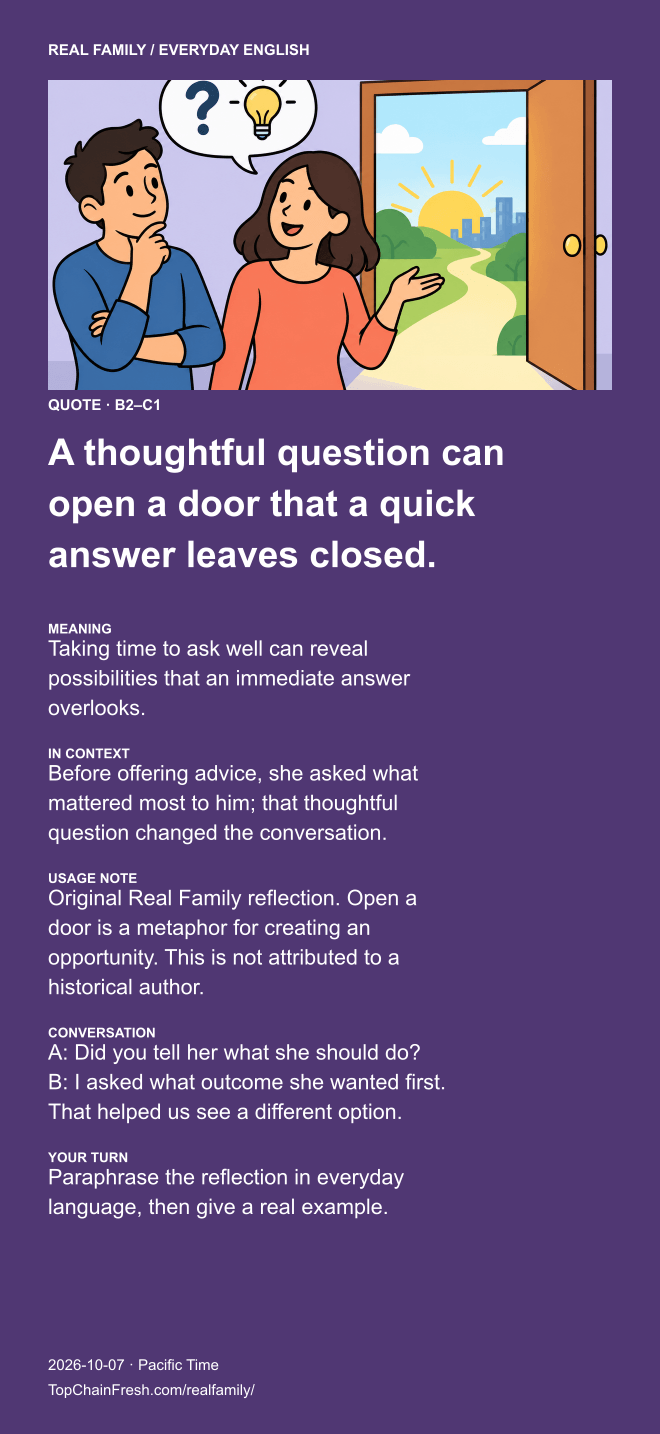
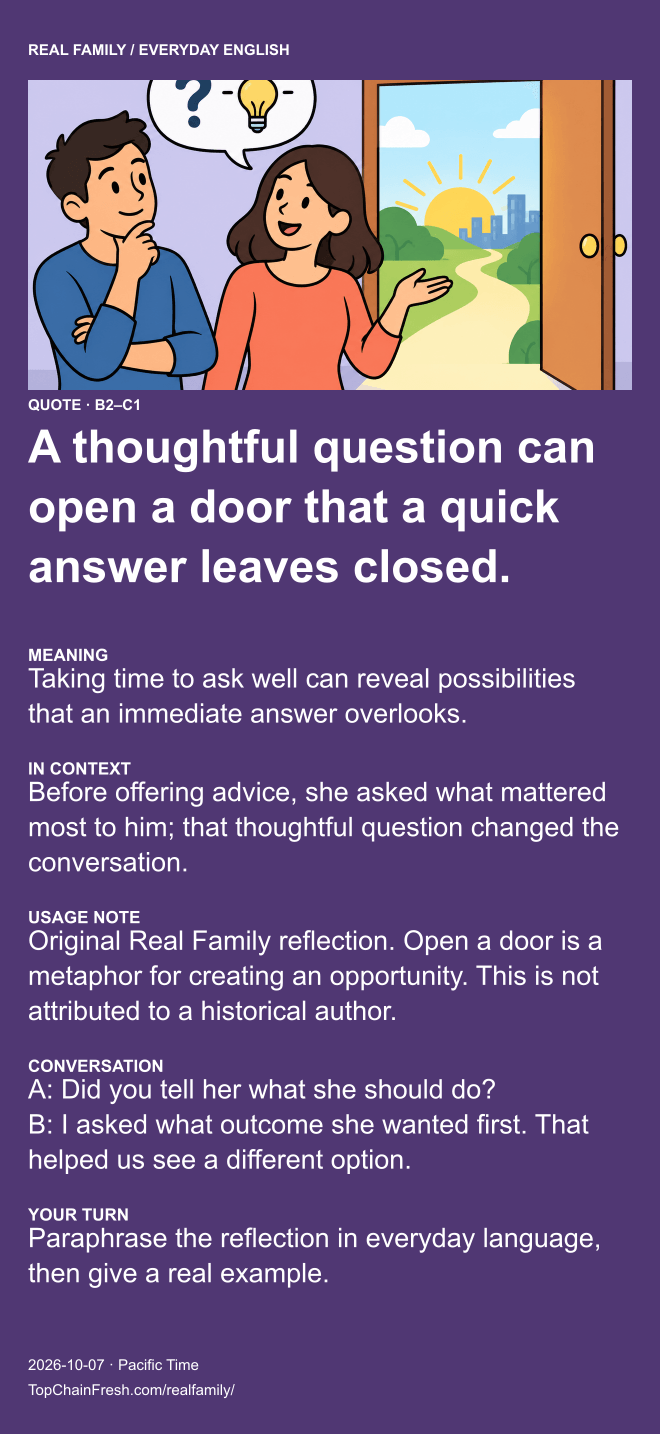
Publish larger English lesson text with narrower margins

diff --git a/realfamily/reports/Real-Family-Website-Report-2026-10-07.html b/realfamily/reports/Real-Family-Website-Report-2026-10-07.html
@@ -1,1 +1,1 @@
-<!doctype html><html lang="zh-Hant"><meta charset="utf-8"><meta name="viewport" content="width=device-width, initial-scale=1"><title>Real Family｜家庭網站使用與設定報告</title><style>*{box-sizing:border-box}body{margin:0;background:#f5f3ec;color:#253e36;font:18px/1.85 -apple-system,BlinkMacSystemFont,"Noto Sans TC",Arial,sans-serif}main{max-width:980px;margin:48px auto;padding:50px 60px;background:white;border-top:6px solid #284c3e;box-shadow:0 12px 40px #253e360b}h1{font-size:38px;line-height:1.4;margin:0 0 24px}h2{font-size:27px;line-height:1.5;margin:48px 0 20px;padding-top:24px;border-top:1px solid #dae0d8}h3{font-size:21px;margin:28px 0 14px}p{margin:0 0 20px}a{color:#35644e;text-underline-offset:4px}li{margin:10px 0}strong{font-weight:650}.table-scroll{overflow:auto;margin:25px 0}table{border-collapse:collapse;width:100%;font-size:16px;line-height:1.6}td,th{text-align:left;padding:14px 12px;border-bottom:1px solid #dae0d8;vertical-align:top}th{background:#edf2e9}button{font:inherit;background:#284c3e;color:white;border:0;border-radius:6px;padding:10px 22px;cursor:pointer}.toolbar{max-width:980px;margin:30px auto;display:flex;gap:16px;align-items:center;padding:0 20px;font-size:15px}.footer{color:#69796f;font-size:14px;margin-top:48px}@media(max-width:650px){main{margin:0;padding:30px 22px}h1{font-size:30px}h2{font-size:24px}body{font-size:17px}}@media print{body{background:white;font-size:11pt}main{padding:0;margin:0;max-width:none;box-shadow:none;border:0}.toolbar{display:none}h1{font-size:23pt}h2{font-size:17pt;break-after:avoid}h3{break-after:avoid}table{font-size:10pt}tr,img{break-inside:avoid}a{color:inherit}@page{size:A4;margin:18mm}}</style><div class="toolbar"><button onclick="window.print()">列印／儲存 PDF</button><span>家庭閱讀版 · October 7, 2026 · Pacific Time</span></div><main><h1>Real Family｜家庭網站使用與設定報告</h1><p><strong>版本日期：2026 年 10 月 7 日，Pacific Time（America/Los_Angeles）</strong> <strong>正式網址：<a href="https://www.topchainfresh.com/realfamily/">TopChainFresh.com/realfamily/</a></strong> 用途：供家人了解網站的內容、操作、更新方式與目前公開資料版的實際範圍。RealFamily.net 是規劃中的獨立網域，目前使用上述 TopChainFresh 子頁。</p><h2>1. 網站定位與共同原則</h2><p>Real Family 是家人共同使用的資訊與學習入口，整合世界新聞、股票市場、健康生活、食譜與英文學習。全站預設英文，內容以清楚、舒服、容易閱讀為優先；品牌不限定地域，傳達「一起成長，一起迎向未來」。</p><ul><li>共六個頁面：首頁與五個內容頁；沒有 Our Story 頁面。</li><li>首頁、左上角 R 標誌與頁尾均不出現中文姓氏，也不提及台灣家族起源或 Growing together in America。</li><li>頁尾使用 <strong>Growing together. Moving toward the future, together.</strong></li><li>台灣仍會出現在相關新聞、市場與料理分類中；這些是資訊內容，與品牌起源介紹分開。</li><li>使用暖白背景、深綠主色與清楚的字級層次；按右上角 <strong>A+</strong> 可放大閱讀版面。手機採單欄，桌面依內容採多欄。</li><li>所有更新時間明示 Pacific Time；夏令／標準時間會顯示 PDT／PST。股市交易日期與收盤時間另列當地時區，不能把各國收盤時間直接當成美國時間。</li><li>外部新聞、期刊、照片與影片提供來源連結；缺少可靠資料時保留原日期、說明缺漏，不製造數字或冒充已更新。</li></ul><h2>2. 六頁功能與更新頻率總覽</h2><div class="table-scroll"><table><thead><tr><th>頁面</th><th>主要內容</th><th>更新設定</th><th>時間／歷史紀錄</th></tr></thead><tbody><tr><td>Our home</td><td>品牌動畫與五個內容入口</td><td>品牌與版面修改時發布</td><td>頁首日期以 Pacific Time 顯示</td></tr><tr><td>World &amp; AI news</td><td>十個國家各三則新聞；十則 AI 新聞</td><td>每小時搜尋一次</td><td>新聞發布時間、成功更新時間、來源</td></tr><tr><td>Global markets</td><td>各市場指數、交易狀態、收盤後技術觀察</td><td>每小時取得公開資料</td><td>當地交易日、時區、收盤時間、Pacific Time 更新時間</td></tr><tr><td>Healthy living</td><td>十組固定健康建議與累積研究索引</td><td>每日凌晨 12:00 Pacific Time 檢查新研究</td><td>最近搜尋時間、最近新增時間、發現日期篩選</td></tr><tr><td>Family kitchen</td><td>主餐／點心、多國料理、材料、步驟與影片</td><td>每日凌晨 12:00 Pacific Time 更新當日精選</td><td>最近更新時間；完整基礎食譜持續可讀</td></tr><tr><td>Everyday English</td><td>每日十張 B2–C1 課程、專屬配圖、分享及儲存</td><td>每日凌晨 12:00 Pacific Time 啟動新課程工作</td><td>永久日期存檔、每日十張卡片與郵件</td></tr></tbody></table></div><p><strong>排程時間與成功時間不同。</strong> 頁面顯示的是資料成功更新的時間；排程、網路或來源延遲時，內容可能晚於整點出現。網頁開著時每分鐘檢查一次已發布資料，這不代表新聞每分鐘重新蒐集。</p><h2>3. 首頁：Our home</h2><p>首頁以 Real Family 動畫與簡短介紹迎接家人。五個入口直接前往新聞、市場、健康、食譜及英文，不額外增加家族故事頁。動畫支援系統的減少動態效果設定。</p><p>使用方式：點選首頁入口或上方導覽；右上角可切換語言及閱讀大小。品牌文字保持 Real Family，不隨機器翻譯改名。</p><h2>4. 新聞：World &amp; AI news</h2><h3>Hot News</h3><p>十個編輯選定的國家：美國、台灣、英國、日本、中國、印度、德國、法國、韓國、加拿大。每國最多三則目前來源可提供的新聞，合計三十則。可看全部，也可按國家篩選。</p><p>來源改為主要媒體的直接 RSS 與文章頁，包括 The Guardian、Focus Taiwan、The Indian Express、The Korea Times；逐則檢查原始發布時間與免費可讀內容。排除標示付費的文章及超出 Pacific Time 今天／昨天的內容，不使用 Google News 轉址。每則附媒體、原始發布時間與文章直連。付費政策可能改變，因此每次重新檢查。</p><h3>AI News</h3><p>最多十則 AI 報導，使用 The Guardian、TechCrunch、Ars Technica 等來源，採相同免費與日期篩選；每小時更新。</p><p><strong>目前實際範圍：</strong> 使用媒體編輯選稿與新鮮度排序。網站沒有全球討論量的量測服務，因此不能保證它們是客觀「全球最重要」或「討論最多」的排名；這一點已在頁面說明。來源失敗時只保留仍符合日期與免費核對條件的新聞；不足三則或十則時不拿舊聞補數。每小時檢查合理，沒有新稿不會製造新新聞。</p><h2>5. 股票市場：Global markets</h2><h3>顯示內容</h3><p>目前列出十四個市場：美國、中國、印度、日本、香港、加拿大、德國、韓國、瑞士、沙烏地阿拉伯、澳洲、英國、法國、台灣。香港作為獨立交易市場列出。</p><p>各市場呈現主要指數。美國包括 Dow Jones、NASDAQ Composite、S&amp;P 500、Philadelphia Semiconductor、Russell 2000。每個指數有最新每日價格、漲跌幅、當地交易日、價格狀態與資料更新時間。</p><h3>排列原則</h3><p>有可比較資料的市場，依 <strong>2025 年國內上市公司股票總市值（美元）</strong> 由高到低排列，來源為 World Bank／WFE。該資料每月檢查一次，不會拿指數點數當國家市值。</p><p>現有資料集未提供英國、法國、台灣的可比較 2025 年數值，三者保留在後方並標示未排名。這是已顯示市場內的排序，<strong>尚不能宣稱完整覆蓋全球市值前十國</strong>。多重上市與來源統計口徑也可能影響比較。</p><h3>收盤與分析規則</h3><ol><li>每小時更新行情及市場狀態，區分交易中、午休、尚未開盤、已收盤、狀態無法確認。</li><li>尚未收盤時，分析位置顯示 <strong>This market has not closed yet.</strong>，不根據未完成的當日價格分析。</li><li>收盤後，等待第一個「嚴格晚於收盤時間」的當地整點更新。例如 16:00 收盤，17:00 才可發布；15:30 收盤，16:00 才可發布。</li><li>即使時間已到，若價格資料的交易日不符合該次收盤日期，仍保留等待狀態。</li><li>已收盤且資料符合時，顯示該次價格相對 20 個交易日均線的位置及下次交易時段觀察重點。假日後的下一次交易不一定是隔天。</li></ol><p><strong>公開資料版的分析是規則式技術觀察，並非 AI 模型產生。</strong> AI 服務尚未接入；頁面明示此限制，不把現有規則改名冒充 AI。頁面保留「僅供參考，不作為投資建議」及行情可能延遲的說明。</p><h3>尚未完整提供的資料</h3><p>Google Finance 公開報價頁為主要資料來源與外連來源，已取消 Yahoo Finance。部分指數缺資料時標示 unavailable；失敗時只保留原 Google 資料並註明時間。即時報價與已核對收盤分開標示，分析須有相符交易日的 Google 每日收盤與足夠歷史，才能在收盤後下一個整點發布。每個指數「成交金額前十名成分股」需要完整成分股及實際成交金額資料，目前尚未接上可靠來源，因此保留位置並說明缺漏。不能把估算的價格乘成交量或指數本身當成已核實成交金額。</p><h2>6. 健康生活：Healthy living</h2><h3>十組基礎建議直接呈現</h3><div class="table-scroll"><table><thead><tr><th>年齡段</th><th>年齡範圍</th><th>呈現方式</th></tr></thead><tbody><tr><td>Babies</td><td>0–11 個月</td><td>女性／男性兩組</td></tr><tr><td>Children</td><td>1–9 歲</td><td>女性／男性兩組</td></tr><tr><td>Teens</td><td>10–17 歲</td><td>女性／男性兩組</td></tr><tr><td>Adults</td><td>18–64 歲</td><td>女性／男性兩組</td></tr><tr><td>Older adults</td><td>65 歲以上</td><td>女性／男性兩組</td></tr></tbody></table></div><p>十組同時列出，不需要先選年齡再選性別。已加深男女鐵需求、不同年齡鈣需求、維他命 D、B12、葉酸、補充條件與實際運動例子；數量是每日總攝取目標，不是直接建議服用的藥丸劑量。不推薦喝酒。每組分為飲食、營養補充與運動，另有該生命階段的注意事項。共通建議不會為了分男女而製造不存在的差異；月經、懷孕可能性、成長、疾病與用藥等情況會另作提示。</p><p>基礎來源包括 WHO 運動建議、CDC 嬰兒餵食、NIH ODS 營養資料。運動時間使用對應年齡的每日／每週單位；例如成人是每週 150–300 分鐘中等強度活動及每週至少兩天肌力訓練，不誤寫為每天。</p><h3>每日研究累積</h3><p>每日透過 Europe PMC 搜尋營養、運動、活動、補充品、睡眠與生命階段相關文獻。以來源網址去重；有新來源才加入，沒有新來源就維持原資料。</p><p>每筆區分「期刊原發布日期」與「網站找到它的日期」，提供期刊、文章類型與原文連結；可依發現日期瀏覽。歷史持續累積，不每天重置。</p><p>研究索引是待閱讀的資料線索，<strong>不是 AI 已完成評讀的醫療建議</strong>。不會自動用單篇研究取代固定基礎建議。本次檢查把兩筆與日常飲食、活動及睡眠範圍不符的舊搜尋結果移出主要列表，仍保留原始存檔。</p><h2>7. 家庭食譜：Family kitchen</h2><p>目前二十份基礎食譜，主餐與點心各十份。分類包括美式、歐式、日式、地中海、中國、台灣、香港、韓國、印度與季節料理；可按料理類型與主餐／點心篩選。</p><ul><li><strong>全部以六人份為基本分量</strong>，每份明列適合人數、準備時間、烹調時間。</li><li>材料採直向列表，一項一列，先食材名稱，再重量、數量或體積；手機會將份量排在易讀的位置。</li><li>步驟拆開說明處理順序、火力／溫度、時間與熟度判斷，避免只寫「煮熟」。</li><li>列出主要過敏原與廚房注意事項；肉類等適用安全熟度另有提醒。</li><li>照片附 Wikimedia Commons 的作者、來源與授權連結；使用相近料理示意時明確標示，不能保證照片就是依本頁六人份配方做出的成品。</li><li>每份最後有相似 YouTube 教學影片及搜尋備用入口。影片作為補充，份量與步驟可能不同，請以本頁六人份材料為準。</li></ul><p>每日午夜更新的是當日精選安排；完整二十份食譜持續可讀。<strong>目前不是每日自動新增二十份全新食譜的系統。</strong></p><h2>8. 每日英文：Everyday English</h2><h3>學習目標與每日配置</h3><p>程度為 B2–C1，著重自然搭配、語氣、語境與溝通；以每日少量練習逐步接近熟練使用者的表達習慣，不保證固定天數就達到母語程度。</p><div class="table-scroll"><table><thead><tr><th>類別</th><th>顏色</th><th>每日張數</th></tr></thead><tbody><tr><td>Vocabulary</td><td>紅色</td><td>2</td></tr><tr><td>Phrasal verbs</td><td>橙色</td><td>2</td></tr><tr><td>Idioms &amp; slang</td><td>黃色</td><td>2</td></tr><tr><td>Life phrases</td><td>綠色</td><td>1</td></tr><tr><td>Grammar</td><td>藍色</td><td>1</td></tr><tr><td>Quote</td><td>紫色</td><td>1</td></tr><tr><td>Small talk</td><td>黑色</td><td>1</td></tr><tr><td><strong>合計</strong></td><td>七種主題</td><td><strong>10</strong></td></tr></tbody></table></div><p>每張包含英英定義、例句、使用注意、示範對話與練習。Quote 使用原創 Real Family 短句，不把未核實的名言歸給歷史人物。</p><h3>卡片與圖片原則</h3><ul><li>每張使用符合「當天教學意思」的專屬圖片，不能只按分類套用固定圖片。</li><li>配圖延續簡單 2D 漫畫：清楚線條、平面色塊、簡化背景，避免複雜寫實風格與不必要的重做，降低生成用量。</li><li>卡片固定 <strong>110:239 的直式長寬比，使用較輕量的 660 × 1434 像素</strong>，對應 <a href="https://support.apple.com/en-us/125091">Apple 公布的 iPhone 17 Pro Max 螢幕比例</a>。比例固定，長文字在可讀範圍內調整字級，不任意加長畫布或截斷內容。</li><li>網站顯示、分享、儲存與郵件附件使用同一張完整 PNG。已移除重複的 Read &amp; practice 區塊；英文模式只顯示完整卡片，切換其他語言時改顯示翻譯文字，不重複列出。A+ 可放大版面。</li><li><strong>Listen</strong> 使用裝置／瀏覽器支援的英語語音，音色依裝置而異。</li><li><strong>Share</strong> 在支援檔案分享的手機上開啟系統分享面板；選擇已安裝的聊天 App。若瀏覽器不支援，改下載 PNG，讓使用者自行附到訊息。</li><li><strong>Save image</strong> 提供下載與圖片預覽；手機可依瀏覽器功能長按儲存。</li><li>PNG 保留英文原文；語言切換直接以翻譯文字取代英文卡片顯示，不會改寫圖片內的文字。</li></ul><h3>日期存檔、去重與郵件</h3><p>從 <strong>2026 年 10 月 7 日，Pacific Time</strong> 起建立每日可選取的正式課程紀錄。選日期會載入該日十張卡；含日期的連結可固定開啟某一天。</p><p>這不是只用三十天、三百天或固定題庫的輪播。每天新增主題，核對所有歷史標題、意思與教學重點；已發布日期保留，不隨意覆寫。發布檢查同時驗證類別數量、必填內容、唯一識別及不同圖片。標題與圖片去重由程式檢查，意義相近的教學主題仍需要產生課程時判斷，不能聲稱機器已保證百分之百語意不重複。</p><p>每日十張完整 PNG 寄至 <strong>RealFamilyPublic@gmail.com</strong>；主旨含日期及 Pacific Time，正文附該日主題與日期連結。郵件成功紀錄保留在本機，寄送前檢查避免重寄。</p><p>每日新課程、圖片與郵件使用本機 Codex 排程，<strong>執行主機必須可用並具備所需服務連線</strong>；不等於無需電腦的雲端 AI 常駐服務。新課程或圖片失敗時保留上一期真實日期並通知，不把舊卡改日期偽裝新卡。</p><h2>9. 語言、時間與家人使用方式</h2><p>右上角提供英文、繁體中文、簡體中文、日文、韓文、西班牙文。翻譯使用公開 Google 翻譯端點；外部服務失敗會提示，可切回英文。機器翻譯可能影響專有名詞與語氣，新聞／醫療／市場內容仍應對照原來源。</p><p>建議家人日常順序：看新聞摘要 → 看自己關注市場的狀態 → 按需要閱讀健康建議 → 選六人份料理 → 完成當天十張英文及練習。需要分享英文時，只在系統分享面板中自行選收件人；網站不會替訪客自動傳給聊天聯絡人。</p><p>網站目前無家庭會員登入，屬公開資訊網站。課程與研究是網站共同存檔，不是每位使用者的個人學習進度。沒有公開醫療個案、投資帳戶或 Gmail 訊息識別碼。</p><h2>10. 本次檢查與修正紀錄</h2><p>逐頁檢查了品牌文字、導覽、來源標示、日期邏輯、資料缺漏的顯示、可折疊內容、食譜分類與材料排版、英文日期選取及完整 PNG 匯出。</p><p>本次完成的修正與驗證包括：</p><ol><li>十張英文卡由固定分類插圖改為十張不同的漫畫情境圖。</li><li>十張輸出逐一驗證為 660 × 1434，保持 iPhone 螢幕比例；調整長內容字級及標題間距，修正分類文字與標題過近的問題。</li><li>分享與儲存改用已驗證的完整 PNG，與郵件附件一致；移除重複展開區，切換語言時直接顯示翻譯文字。</li><li>每日規則加入必要圖片檢查、持續歷史去重及寄件檢查，不再使用有限題庫循環。</li><li>股票分析加入交易中、收盤後等待、下一整點放行、舊交易日資料繼續等待等檢查；也測試印度的半小時時區。</li><li>健康十組同時呈現；保留研究歷史，將不符日常主題的舊結果移出主要列表。</li><li>食譜檢查二十份、全部六人份、直向材料列及二十個影片入口；保留照片出處與授權。</li><li>新聞／市場來源取得失敗時增加原資料保留提示，避免把舊數據當成剛更新。</li><li>檢查字體放大、七色分類、桌面與手機響應式規則、頁面寬度、圖片載入及頁尾品牌；測試六種語言切換及各分類張數。</li><li>修正初次載入時短暫缺圖的情況；每分鐘檢查資料若內容未變，不重新排版，減少打斷閱讀。</li><li>保留原網域、正式 /realfamily/ 路徑與舊 /real-family/ 導向；網站及資料以獨立 RealFamily 儲存庫維護，再同步正式網站。</li></ol><p><strong>檢查範圍的界線：</strong> 已檢查本次可控制的頁面與功能，不代表外部新聞來源、影片、翻譯或所有使用者手機 App 永遠可用；原生分享與語音須依裝置支援。仍未接入的金融與 AI 功能已在本報告及網站標示，不能把預留位置當成完成資料服務。</p><h2>11. 後續升級優先順序</h2><ol><li>接入授權金融資料，補齊一致口徑的全球股票市值、缺失指數及成交金額前十成分股。</li><li>接入 AI 服務後，沿用收盤後下一次每小時更新的門檻，產生有來源、條件與不確定性的分析。</li><li>若希望不依賴家中電腦，將新課程、圖片與寄信工作移至可持續運作的雲端排程；仍保留歷史及失敗通知。</li><li>擴充食譜與健康研究時，持續檢查份量、適用族群、證據品質與圖片／影片授權。</li></ol><p>本報告記錄的是目前版本的實際設定，之後功能或資料服務改變時應同步更新。</p><p class="footer">Real Family · Growing together. Moving toward the future, together.</p></main></html>
+<!doctype html><html lang="zh-Hant"><meta charset="utf-8"><meta name="viewport" content="width=device-width, initial-scale=1"><title>Real Family｜家庭網站使用與設定報告</title><style>*{box-sizing:border-box}body{margin:0;background:#f5f3ec;color:#253e36;font:18px/1.85 -apple-system,BlinkMacSystemFont,"Noto Sans TC",Arial,sans-serif}main{max-width:980px;margin:48px auto;padding:50px 60px;background:white;border-top:6px solid #284c3e;box-shadow:0 12px 40px #253e360b}h1{font-size:38px;line-height:1.4;margin:0 0 24px}h2{font-size:27px;line-height:1.5;margin:48px 0 20px;padding-top:24px;border-top:1px solid #dae0d8}h3{font-size:21px;margin:28px 0 14px}p{margin:0 0 20px}a{color:#35644e;text-underline-offset:4px}li{margin:10px 0}strong{font-weight:650}.table-scroll{overflow:auto;margin:25px 0}table{border-collapse:collapse;width:100%;font-size:16px;line-height:1.6}td,th{text-align:left;padding:14px 12px;border-bottom:1px solid #dae0d8;vertical-align:top}th{background:#edf2e9}button{font:inherit;background:#284c3e;color:white;border:0;border-radius:6px;padding:10px 22px;cursor:pointer}.toolbar{max-width:980px;margin:30px auto;display:flex;gap:16px;align-items:center;padding:0 20px;font-size:15px}.footer{color:#69796f;font-size:14px;margin-top:48px}@media(max-width:650px){main{margin:0;padding:30px 22px}h1{font-size:30px}h2{font-size:24px}body{font-size:17px}}@media print{body{background:white;font-size:11pt}main{padding:0;margin:0;max-width:none;box-shadow:none;border:0}.toolbar{display:none}h1{font-size:23pt}h2{font-size:17pt;break-after:avoid}h3{break-after:avoid}table{font-size:10pt}tr,img{break-inside:avoid}a{color:inherit}@page{size:A4;margin:18mm}}</style><div class="toolbar"><button onclick="window.print()">列印／儲存 PDF</button><span>家庭閱讀版 · October 7, 2026 · Pacific Time</span></div><main><h1>Real Family｜家庭網站使用與設定報告</h1><p><strong>版本日期：2026 年 10 月 7 日，Pacific Time（America/Los_Angeles）</strong> <strong>正式網址：<a href="https://www.topchainfresh.com/realfamily/">TopChainFresh.com/realfamily/</a></strong> 用途：供家人了解網站的內容、操作、更新方式與目前公開資料版的實際範圍。RealFamily.net 是規劃中的獨立網域，目前使用上述 TopChainFresh 子頁。</p><h2>1. 網站定位與共同原則</h2><p>Real Family 是家人共同使用的資訊與學習入口，整合世界新聞、股票市場、健康生活、食譜與英文學習。全站預設英文，內容以清楚、舒服、容易閱讀為優先；品牌不限定地域，傳達「一起成長，一起迎向未來」。</p><ul><li>共六個頁面：首頁與五個內容頁；沒有 Our Story 頁面。</li><li>首頁、左上角 R 標誌與頁尾均不出現中文姓氏，也不提及台灣家族起源或 Growing together in America。</li><li>頁尾使用 <strong>Growing together. Moving toward the future, together.</strong></li><li>台灣仍會出現在相關新聞、市場與料理分類中；這些是資訊內容，與品牌起源介紹分開。</li><li>使用暖白背景、深綠主色與清楚的字級層次；按右上角 <strong>A+</strong> 可放大閱讀版面。手機採單欄，桌面依內容採多欄。</li><li>所有更新時間明示 Pacific Time；夏令／標準時間會顯示 PDT／PST。股市交易日期與收盤時間另列當地時區，不能把各國收盤時間直接當成美國時間。</li><li>外部新聞、期刊、照片與影片提供來源連結；缺少可靠資料時保留原日期、說明缺漏，不製造數字或冒充已更新。</li></ul><h2>2. 六頁功能與更新頻率總覽</h2><div class="table-scroll"><table><thead><tr><th>頁面</th><th>主要內容</th><th>更新設定</th><th>時間／歷史紀錄</th></tr></thead><tbody><tr><td>Our home</td><td>品牌動畫與五個內容入口</td><td>品牌與版面修改時發布</td><td>頁首日期以 Pacific Time 顯示</td></tr><tr><td>World &amp; AI news</td><td>十個國家各三則新聞；十則 AI 新聞</td><td>每小時搜尋一次</td><td>新聞發布時間、成功更新時間、來源</td></tr><tr><td>Global markets</td><td>各市場指數、交易狀態、收盤後技術觀察</td><td>每小時取得公開資料</td><td>當地交易日、時區、收盤時間、Pacific Time 更新時間</td></tr><tr><td>Healthy living</td><td>十組固定健康建議與累積研究索引</td><td>每日凌晨 12:00 Pacific Time 檢查新研究</td><td>最近搜尋時間、最近新增時間、發現日期篩選</td></tr><tr><td>Family kitchen</td><td>主餐／點心、多國料理、材料、步驟與影片</td><td>每日凌晨 12:00 Pacific Time 更新當日精選</td><td>最近更新時間；完整基礎食譜持續可讀</td></tr><tr><td>Everyday English</td><td>每日十張 B2–C1 課程、專屬配圖、分享及儲存</td><td>每日凌晨 12:00 Pacific Time 啟動新課程工作</td><td>永久日期存檔、每日十張卡片與郵件</td></tr></tbody></table></div><p><strong>排程時間與成功時間不同。</strong> 頁面顯示的是資料成功更新的時間；排程、網路或來源延遲時，內容可能晚於整點出現。網頁開著時每分鐘檢查一次已發布資料，這不代表新聞每分鐘重新蒐集。</p><h2>3. 首頁：Our home</h2><p>首頁以 Real Family 動畫與簡短介紹迎接家人。五個入口直接前往新聞、市場、健康、食譜及英文，不額外增加家族故事頁。動畫支援系統的減少動態效果設定。</p><p>使用方式：點選首頁入口或上方導覽；右上角可切換語言及閱讀大小。品牌文字保持 Real Family，不隨機器翻譯改名。</p><h2>4. 新聞：World &amp; AI news</h2><h3>Hot News</h3><p>十個編輯選定的國家：美國、台灣、英國、日本、中國、印度、德國、法國、韓國、加拿大。每國最多三則目前來源可提供的新聞，合計三十則。可看全部，也可按國家篩選。</p><p>來源改為主要媒體的直接 RSS 與文章頁，包括 The Guardian、Focus Taiwan、The Indian Express、The Korea Times；逐則檢查原始發布時間與免費可讀內容。排除標示付費的文章及超出 Pacific Time 今天／昨天的內容，不使用 Google News 轉址。每則附媒體、原始發布時間與文章直連。付費政策可能改變，因此每次重新檢查。</p><h3>AI News</h3><p>最多十則 AI 報導，使用 The Guardian、TechCrunch、Ars Technica 等來源，採相同免費與日期篩選；每小時更新。</p><p><strong>目前實際範圍：</strong> 使用媒體編輯選稿與新鮮度排序。網站沒有全球討論量的量測服務，因此不能保證它們是客觀「全球最重要」或「討論最多」的排名；這一點已在頁面說明。來源失敗時只保留仍符合日期與免費核對條件的新聞；不足三則或十則時不拿舊聞補數。每小時檢查合理，沒有新稿不會製造新新聞。</p><h2>5. 股票市場：Global markets</h2><h3>顯示內容</h3><p>目前列出十四個市場：美國、中國、印度、日本、香港、加拿大、德國、韓國、瑞士、沙烏地阿拉伯、澳洲、英國、法國、台灣。香港作為獨立交易市場列出。</p><p>各市場呈現主要指數。美國包括 Dow Jones、NASDAQ Composite、S&amp;P 500、Philadelphia Semiconductor、Russell 2000。每個指數有最新每日價格、漲跌幅、當地交易日、價格狀態與資料更新時間。</p><h3>排列原則</h3><p>有可比較資料的市場，依 <strong>2025 年國內上市公司股票總市值（美元）</strong> 由高到低排列，來源為 World Bank／WFE。該資料每月檢查一次，不會拿指數點數當國家市值。</p><p>現有資料集未提供英國、法國、台灣的可比較 2025 年數值，三者保留在後方並標示未排名。這是已顯示市場內的排序，<strong>尚不能宣稱完整覆蓋全球市值前十國</strong>。多重上市與來源統計口徑也可能影響比較。</p><h3>收盤與分析規則</h3><ol><li>每小時更新行情及市場狀態，區分交易中、午休、尚未開盤、已收盤、狀態無法確認。</li><li>尚未收盤時，分析位置顯示 <strong>This market has not closed yet.</strong>，不根據未完成的當日價格分析。</li><li>收盤後，等待第一個「嚴格晚於收盤時間」的當地整點更新。例如 16:00 收盤，17:00 才可發布；15:30 收盤，16:00 才可發布。</li><li>即使時間已到，若價格資料的交易日不符合該次收盤日期，仍保留等待狀態。</li><li>已收盤且資料符合時，顯示該次價格相對 20 個交易日均線的位置及下次交易時段觀察重點。假日後的下一次交易不一定是隔天。</li></ol><p><strong>公開資料版的分析是規則式技術觀察，並非 AI 模型產生。</strong> AI 服務尚未接入；頁面明示此限制，不把現有規則改名冒充 AI。頁面保留「僅供參考，不作為投資建議」及行情可能延遲的說明。</p><h3>尚未完整提供的資料</h3><p>Google Finance 公開報價頁為主要資料來源與外連來源，已取消 Yahoo Finance。部分指數缺資料時標示 unavailable；失敗時只保留原 Google 資料並註明時間。即時報價與已核對收盤分開標示，分析須有相符交易日的 Google 每日收盤與足夠歷史，才能在收盤後下一個整點發布。每個指數「成交金額前十名成分股」需要完整成分股及實際成交金額資料，目前尚未接上可靠來源，因此保留位置並說明缺漏。不能把估算的價格乘成交量或指數本身當成已核實成交金額。</p><h2>6. 健康生活：Healthy living</h2><h3>十組基礎建議直接呈現</h3><div class="table-scroll"><table><thead><tr><th>年齡段</th><th>年齡範圍</th><th>呈現方式</th></tr></thead><tbody><tr><td>Babies</td><td>0–11 個月</td><td>女性／男性兩組</td></tr><tr><td>Children</td><td>1–9 歲</td><td>女性／男性兩組</td></tr><tr><td>Teens</td><td>10–17 歲</td><td>女性／男性兩組</td></tr><tr><td>Adults</td><td>18–64 歲</td><td>女性／男性兩組</td></tr><tr><td>Older adults</td><td>65 歲以上</td><td>女性／男性兩組</td></tr></tbody></table></div><p>十組同時列出，不需要先選年齡再選性別。已加深男女鐵需求、不同年齡鈣需求、維他命 D、B12、葉酸、補充條件與實際運動例子；數量是每日總攝取目標，不是直接建議服用的藥丸劑量。不推薦喝酒。每組分為飲食、營養補充與運動，另有該生命階段的注意事項。共通建議不會為了分男女而製造不存在的差異；月經、懷孕可能性、成長、疾病與用藥等情況會另作提示。</p><p>基礎來源包括 WHO 運動建議、CDC 嬰兒餵食、NIH ODS 營養資料。運動時間使用對應年齡的每日／每週單位；例如成人是每週 150–300 分鐘中等強度活動及每週至少兩天肌力訓練，不誤寫為每天。</p><h3>每日研究累積</h3><p>每日透過 Europe PMC 搜尋營養、運動、活動、補充品、睡眠與生命階段相關文獻。以來源網址去重；有新來源才加入，沒有新來源就維持原資料。</p><p>每筆區分「期刊原發布日期」與「網站找到它的日期」，提供期刊、文章類型與原文連結；可依發現日期瀏覽。歷史持續累積，不每天重置。</p><p>研究索引是待閱讀的資料線索，<strong>不是 AI 已完成評讀的醫療建議</strong>。不會自動用單篇研究取代固定基礎建議。本次檢查把兩筆與日常飲食、活動及睡眠範圍不符的舊搜尋結果移出主要列表，仍保留原始存檔。</p><h2>7. 家庭食譜：Family kitchen</h2><p>目前二十份基礎食譜，主餐與點心各十份。分類包括美式、歐式、日式、地中海、中國、台灣、香港、韓國、印度與季節料理；可按料理類型與主餐／點心篩選。</p><ul><li><strong>全部以六人份為基本分量</strong>，每份明列適合人數、準備時間、烹調時間。</li><li>材料採直向列表，一項一列，先食材名稱，再重量、數量或體積；手機會將份量排在易讀的位置。</li><li>步驟拆開說明處理順序、火力／溫度、時間與熟度判斷，避免只寫「煮熟」。</li><li>列出主要過敏原與廚房注意事項；肉類等適用安全熟度另有提醒。</li><li>照片附 Wikimedia Commons 的作者、來源與授權連結；使用相近料理示意時明確標示，不能保證照片就是依本頁六人份配方做出的成品。</li><li>每份最後有相似 YouTube 教學影片及搜尋備用入口。影片作為補充，份量與步驟可能不同，請以本頁六人份材料為準。</li></ul><p>每日午夜更新的是當日精選安排；完整二十份食譜持續可讀。<strong>目前不是每日自動新增二十份全新食譜的系統。</strong></p><h2>8. 每日英文：Everyday English</h2><h3>學習目標與每日配置</h3><p>程度為 B2–C1，著重自然搭配、語氣、語境與溝通；以每日少量練習逐步接近熟練使用者的表達習慣，不保證固定天數就達到母語程度。</p><div class="table-scroll"><table><thead><tr><th>類別</th><th>顏色</th><th>每日張數</th></tr></thead><tbody><tr><td>Vocabulary</td><td>紅色</td><td>2</td></tr><tr><td>Phrasal verbs</td><td>橙色</td><td>2</td></tr><tr><td>Idioms &amp; slang</td><td>黃色</td><td>2</td></tr><tr><td>Life phrases</td><td>綠色</td><td>1</td></tr><tr><td>Grammar</td><td>藍色</td><td>1</td></tr><tr><td>Quote</td><td>紫色</td><td>1</td></tr><tr><td>Small talk</td><td>黑色</td><td>1</td></tr><tr><td><strong>合計</strong></td><td>七種主題</td><td><strong>10</strong></td></tr></tbody></table></div><p>每張包含英英定義、例句、使用注意、示範對話與練習。Quote 使用原創 Real Family 短句，不把未核實的名言歸給歷史人物。</p><h3>卡片與圖片原則</h3><ul><li>每張使用符合「當天教學意思」的專屬圖片，不能只按分類套用固定圖片。</li><li>配圖延續簡單 2D 漫畫：清楚線條、平面色塊、簡化背景，避免複雜寫實風格與不必要的重做，降低生成用量。</li><li>卡片固定 <strong>110:239 的直式長寬比，使用較輕量的 660 × 1434 像素</strong>，對應 <a href="https://support.apple.com/en-us/125091">Apple 公布的 iPhone 17 Pro Max 螢幕比例</a>。比例固定，依字體的實際寬度換行，左右邊距各 28 像素，按每張內容放大字體與微調行距；不任意加長畫布或截斷內容。</li><li>網站顯示、分享、儲存與郵件附件使用同一張完整 PNG。已移除重複的 Read &amp; practice 區塊；英文模式只顯示完整卡片，切換其他語言時改顯示翻譯文字，不重複列出。A+ 可放大版面。</li><li><strong>Listen</strong> 使用裝置／瀏覽器支援的英語語音，音色依裝置而異。</li><li><strong>Share</strong> 在支援檔案分享的手機上開啟系統分享面板；選擇已安裝的聊天 App。若瀏覽器不支援，改下載 PNG，讓使用者自行附到訊息。</li><li><strong>Save image</strong> 提供下載與圖片預覽；手機可依瀏覽器功能長按儲存。</li><li>PNG 保留英文原文；語言切換直接以翻譯文字取代英文卡片顯示，不會改寫圖片內的文字。</li></ul><h3>日期存檔、去重與郵件</h3><p>從 <strong>2026 年 10 月 7 日，Pacific Time</strong> 起建立每日可選取的正式課程紀錄。選日期會載入該日十張卡；含日期的連結可固定開啟某一天。</p><p>這不是只用三十天、三百天或固定題庫的輪播。每天新增主題，核對所有歷史標題、意思與教學重點；已發布日期保留，不隨意覆寫。發布檢查同時驗證類別數量、必填內容、唯一識別及不同圖片。標題與圖片去重由程式檢查，意義相近的教學主題仍需要產生課程時判斷，不能聲稱機器已保證百分之百語意不重複。</p><p>每日十張完整 PNG 寄至 <strong>RealFamilyPublic@gmail.com</strong>；主旨含日期及 Pacific Time，正文附該日主題與日期連結。郵件成功紀錄保留在本機，寄送前檢查避免重寄。</p><p>每日新課程、圖片與郵件使用本機 Codex 排程，<strong>執行主機必須可用並具備所需服務連線</strong>；不等於無需電腦的雲端 AI 常駐服務。新課程或圖片失敗時保留上一期真實日期並通知，不把舊卡改日期偽裝新卡。</p><h2>9. 語言、時間與家人使用方式</h2><p>右上角提供英文、繁體中文、簡體中文、日文、韓文、西班牙文。翻譯使用公開 Google 翻譯端點；外部服務失敗會提示，可切回英文。機器翻譯可能影響專有名詞與語氣，新聞／醫療／市場內容仍應對照原來源。</p><p>建議家人日常順序：看新聞摘要 → 看自己關注市場的狀態 → 按需要閱讀健康建議 → 選六人份料理 → 完成當天十張英文及練習。需要分享英文時，只在系統分享面板中自行選收件人；網站不會替訪客自動傳給聊天聯絡人。</p><p>網站目前無家庭會員登入，屬公開資訊網站。課程與研究是網站共同存檔，不是每位使用者的個人學習進度。沒有公開醫療個案、投資帳戶或 Gmail 訊息識別碼。</p><h2>10. 本次檢查與修正紀錄</h2><p>逐頁檢查了品牌文字、導覽、來源標示、日期邏輯、資料缺漏的顯示、可折疊內容、食譜分類與材料排版、英文日期選取及完整 PNG 匯出。</p><p>本次完成的修正與驗證包括：</p><ol><li>十張英文卡由固定分類插圖改為十張不同的漫畫情境圖。</li><li>十張輸出逐一驗證為 660 × 1434，保持 iPhone 螢幕比例；調整長內容字級及標題間距，修正分類文字與標題過近的問題。</li><li>分享與儲存改用已驗證的完整 PNG，與郵件附件一致；移除重複展開區，切換語言時直接顯示翻譯文字。</li><li>每日規則加入必要圖片檢查、持續歷史去重及寄件檢查，不再使用有限題庫循環。</li><li>股票分析加入交易中、收盤後等待、下一整點放行、舊交易日資料繼續等待等檢查；也測試印度的半小時時區。</li><li>健康十組同時呈現；保留研究歷史，將不符日常主題的舊結果移出主要列表。</li><li>食譜檢查二十份、全部六人份、直向材料列及二十個影片入口；保留照片出處與授權。</li><li>新聞／市場來源取得失敗時增加原資料保留提示，避免把舊數據當成剛更新。</li><li>檢查字體放大、七色分類、桌面與手機響應式規則、頁面寬度、圖片載入及頁尾品牌；測試六種語言切換及各分類張數。</li><li>修正初次載入時短暫缺圖的情況；每分鐘檢查資料若內容未變，不重新排版，減少打斷閱讀。</li><li>保留原網域、正式 /realfamily/ 路徑與舊 /real-family/ 導向；網站及資料以獨立 RealFamily 儲存庫維護，再同步正式網站。</li></ol><p><strong>檢查範圍的界線：</strong> 已檢查本次可控制的頁面與功能，不代表外部新聞來源、影片、翻譯或所有使用者手機 App 永遠可用；原生分享與語音須依裝置支援。仍未接入的金融與 AI 功能已在本報告及網站標示，不能把預留位置當成完成資料服務。</p><h2>11. 後續升級優先順序</h2><ol><li>接入授權金融資料，補齊一致口徑的全球股票市值、缺失指數及成交金額前十成分股。</li><li>接入 AI 服務後，沿用收盤後下一次每小時更新的門檻，產生有來源、條件與不確定性的分析。</li><li>若希望不依賴家中電腦，將新課程、圖片與寄信工作移至可持續運作的雲端排程；仍保留歷史及失敗通知。</li><li>擴充食譜與健康研究時，持續檢查份量、適用族群、證據品質與圖片／影片授權。</li></ol><p>本報告記錄的是目前版本的實際設定，之後功能或資料服務改變時應同步更新。</p><p class="footer">Real Family · Growing together. Moving toward the future, together.</p></main></html>

diff --git a/realfamily/reports/Real-Family-Website-Report-2026-10-07.md b/realfamily/reports/Real-Family-Website-Report-2026-10-07.md
@@ -137,7 +137,7 @@ Google Finance 公開報價頁為主要資料來源與外連來源，已取消 Y
 
 - 每張使用符合「當天教學意思」的專屬圖片，不能只按分類套用固定圖片。
 - 配圖延續簡單 2D 漫畫：清楚線條、平面色塊、簡化背景，避免複雜寫實風格與不必要的重做，降低生成用量。
-- 卡片固定 **110:239 的直式長寬比，使用較輕量的 660 × 1434 像素**，對應 [Apple 公布的 iPhone 17 Pro Max 螢幕比例](https://support.apple.com/en-us/125091)。比例固定，長文字在可讀範圍內調整字級，不任意加長畫布或截斷內容。
+- 卡片固定 **110:239 的直式長寬比，使用較輕量的 660 × 1434 像素**，對應 [Apple 公布的 iPhone 17 Pro Max 螢幕比例](https://support.apple.com/en-us/125091)。比例固定，依字體的實際寬度換行，左右邊距各 28 像素，按每張內容放大字體與微調行距；不任意加長畫布或截斷內容。
 - 網站顯示、分享、儲存與郵件附件使用同一張完整 PNG。已移除重複的 Read & practice 區塊；英文模式只顯示完整卡片，切換其他語言時改顯示翻譯文字，不重複列出。A+ 可放大版面。
 - **Listen** 使用裝置／瀏覽器支援的英語語音，音色依裝置而異。
 - **Share** 在支援檔案分享的手機上開啟系統分享面板；選擇已安裝的聊天 App。若瀏覽器不支援，改下載 PNG，讓使用者自行附到訊息。
